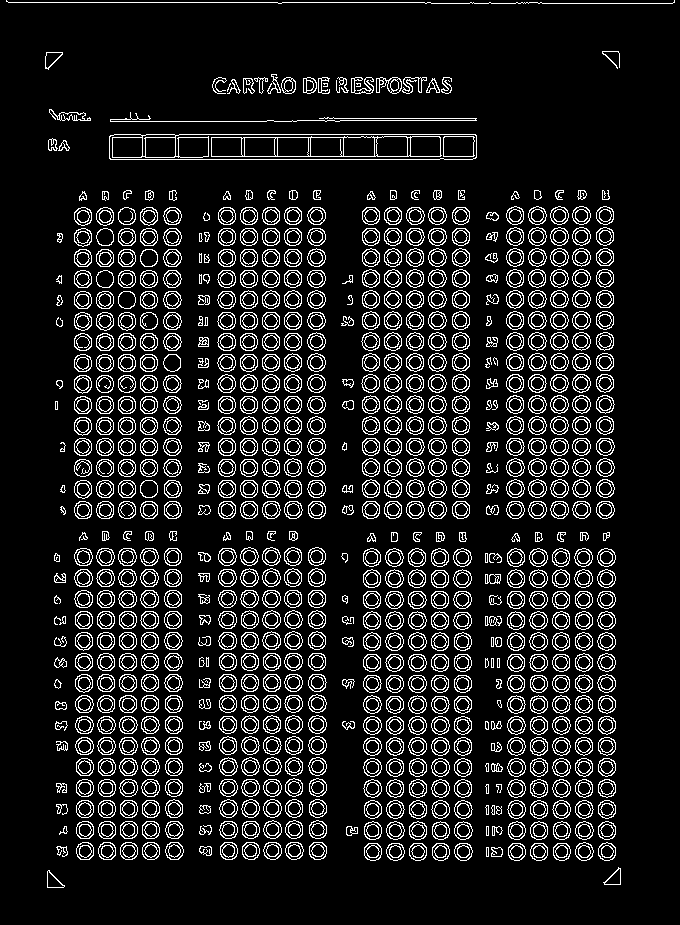
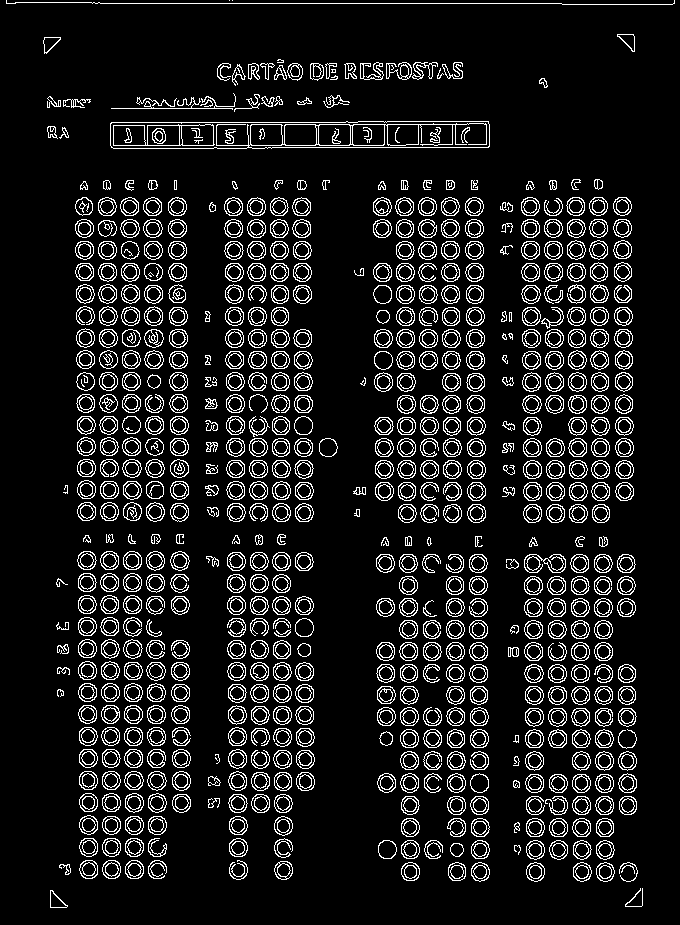
add digits images

diff --git a/experiments/align_tests.py b/experiments/align_tests.py
@@ -21,7 +21,7 @@ import skimage
 # In[94]:
 
 
-image = cv2.imread("../samples/model3/4.png")
+image = cv2.imread("../samples/model3/5.png")
 
 factor = 0.4
 height, width, _ = image.shape
